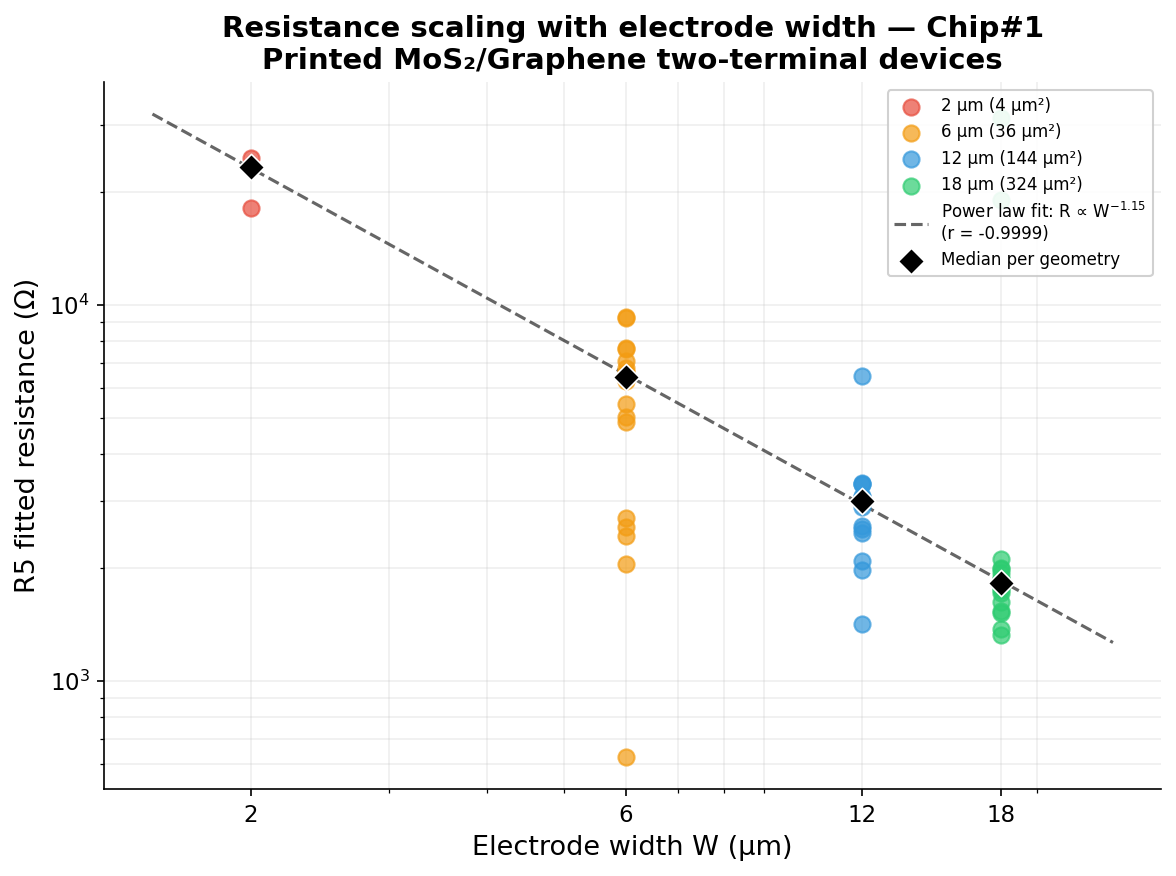
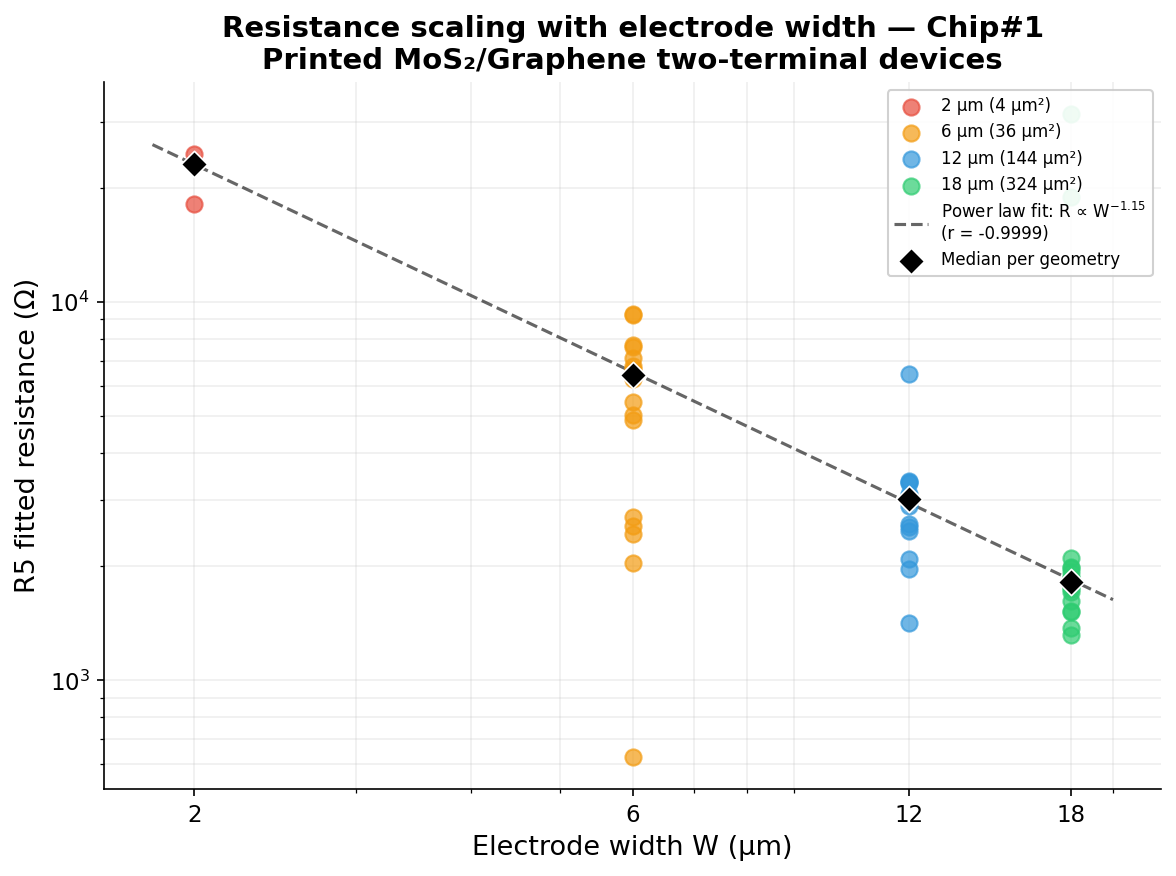
Remove .claude folder, force regenerate fig_07b, clip fit line, fix src folder, update requirements, add badges
Context: .claude folder exposed tool usage metadata; BC2 annotation persisting because old PNG was not deleted; fit line extrapolating beyond data; src/ folder empty; requirements.txt unverified
Approach: Removed .claude from git tracking and gitignore; deleted old PNG then re-executed full notebook; clipped w_fit to data range; removed empty src/; verified requirements; added badges and docs link
Output: Clean repo, clean fig_07b, updated README

diff --git a/README.md b/README.md
@@ -1,5 +1,9 @@
 # MoS₂/Graphene Printed Memristor — Electrical Characterisation and Data Analysis
 
+![Python](https://img.shields.io/badge/Python-3.9+-blue?style=flat-square)
+![License](https://img.shields.io/badge/License-MIT-green?style=flat-square)
+![Institution](https://img.shields.io/badge/Imperial_College_London-Torrisi_Lab-navy?style=flat-square)
+
 **Si/SiO₂/Au/Cr/MoS₂/Graphene vertical memristor stack · Keithley 2634B SMU · Imperial College London, Torrisi Lab (2DWeb Group) · 2023–2024**
 
 Won Jun Lee (이원준) · MRes Soft Electronics, Imperial College London · [github.com/wjlee619](https://github.com/wjlee619)
@@ -225,6 +229,8 @@ mos2-memristor-ml/
 │   └── analysis_log.md                      # Per-notebook analysis log
 └── requirements.txt
 ```
+
+The [`docs/device_physics_notes.md`](docs/device_physics_notes.md) file contains a detailed reference on device physics, switching mechanisms, and measurement methodology developed during the project.
 
 ---
 